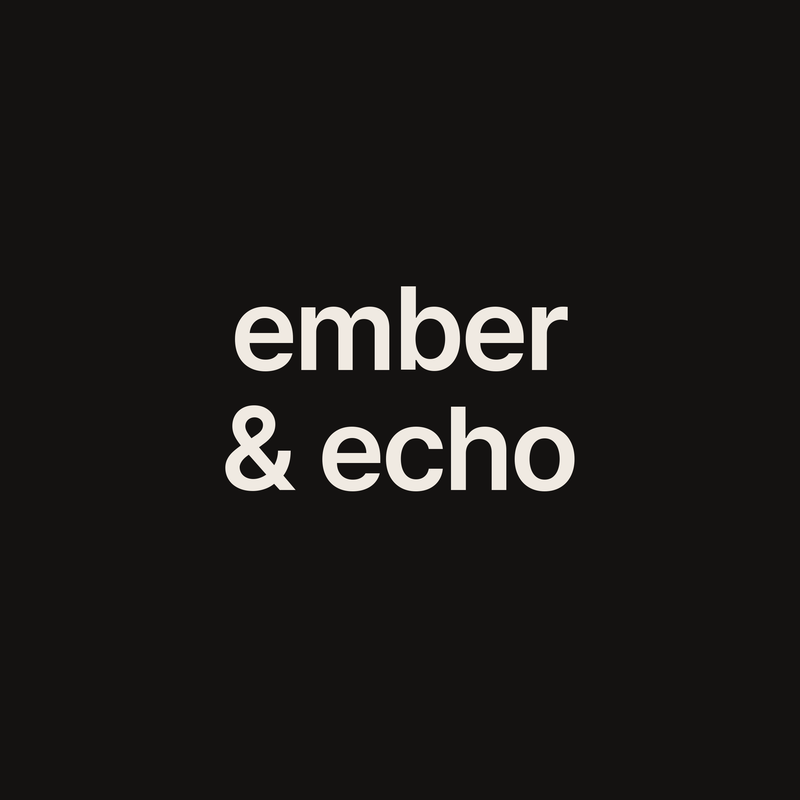
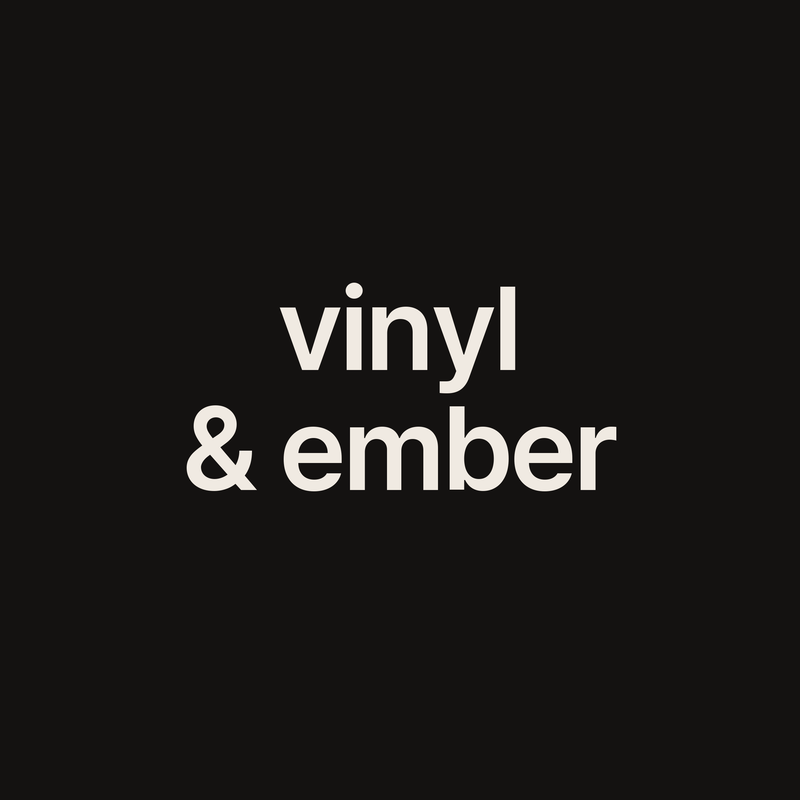
Rename channel to Vinyl & Ember

Changed region(s): [[0.2188, 0.3438, 0.7812, 0.625]]

diff --git a/privacy.html b/privacy.html
@@ -3,7 +3,7 @@
 <head>
 <meta charset="utf-8">
 <meta name="viewport" content="width=device-width, initial-scale=1">
-<title>Privacy Policy · ember &amp; echo</title>
+<title>Privacy Policy · vinyl &amp; ember</title>
 <link rel="icon" href="icon.png">
 <style>
   :root { --bg:#141211; --ink:#f0eae2; --muted:#8c857e; }
@@ -19,14 +19,14 @@
 </style>
 </head>
 <body><main>
-<p class="muted"><a href="./">ember &amp; echo</a></p>
+<p class="muted"><a href="./">vinyl &amp; ember</a></p>
 <h1>Privacy Policy</h1>
 <p class="muted">Effective date: November 20, 2026</p>
 
-<p>This policy describes how <b>BGM Uploader</b>, the internal tool operated by Ember &amp; Echo ("we"), handles data. BGM Uploader uses the YouTube API Services. By using it you also agree to the <a href="https://www.youtube.com/t/terms">YouTube Terms of Service</a>, and Google's handling of data is described in the <a href="https://policies.google.com/privacy">Google Privacy Policy</a>.</p>
+<p>This policy describes how <b>BGM Uploader</b>, the internal tool operated by Vinyl &amp; Ember ("we"), handles data. BGM Uploader uses the YouTube API Services. By using it you also agree to the <a href="https://www.youtube.com/t/terms">YouTube Terms of Service</a>, and Google's handling of data is described in the <a href="https://policies.google.com/privacy">Google Privacy Policy</a>.</p>
 
 <h2>Who uses the tool</h2>
-<p>BGM Uploader is used only by the owner of the YouTube channel Ember &amp; Echo (@ember_echo-music) to manage that channel. It is not offered to the public and has no other users.</p>
+<p>BGM Uploader is used only by the owner of the YouTube channel Vinyl &amp; Ember (@vinylandember) to manage that channel. It is not offered to the public and has no other users.</p>
 
 <h2>Data we access</h2>
 <ul>
@@ -52,6 +52,6 @@
 <p>We may update this policy; the effective date above will change accordingly.</p>
 
 <h2>Contact</h2>
-<p>For questions, use the contact email listed on our YouTube channel's About page: <a href="https://www.youtube.com/@ember_echo-music/about">youtube.com/@ember_echo-music/about</a>.</p>
+<p>For questions, use the contact email listed on our YouTube channel's About page: <a href="https://www.youtube.com/@vinylandember/about">youtube.com/@vinylandember/about</a>.</p>
 </main></body>
 </html>

diff --git a/index.html b/index.html
@@ -3,7 +3,7 @@
 <head>
 <meta charset="utf-8">
 <meta name="viewport" content="width=device-width, initial-scale=1">
-<title>ember &amp; echo</title>
+<title>vinyl &amp; ember</title>
 <meta name="description" content="Original background music for cafes, study, drives and quiet nights.">
 <link rel="icon" href="icon.png">
 <style>
@@ -25,20 +25,20 @@
 </style>
 </head>
 <body>
-  <h1>ember &amp; echo</h1>
+  <h1>vinyl &amp; ember</h1>
   <div class="tag">original background music</div>
-  <p class="about">Ember &amp; Echo publishes original background-music playlists for cafes, study, drives and quiet nights on YouTube.
+  <p class="about">Vinyl &amp; Ember publishes original background-music playlists for cafes, study, drives and quiet nights on YouTube.
     Our internal tool, <b>BGM Uploader</b>, uploads and schedules videos to our own channel and reads our own channel analytics through the YouTube API Services.</p>
   <nav>
-    <a href="https://www.youtube.com/@ember_echo-music">YouTube channel</a>
+    <a href="https://www.youtube.com/@vinylandember">YouTube channel</a>
     <a href="privacy.html">Privacy Policy</a>
     <a href="terms.html">Terms of Service</a>
   </nav>
-  <a class="yt" href="https://www.youtube.com/@ember_echo-music" aria-label="Ember &amp; Echo on YouTube">
+  <a class="yt" href="https://www.youtube.com/@vinylandember" aria-label="Vinyl &amp; Ember on YouTube">
     <svg width="40" height="28" viewBox="0 0 40 28" aria-hidden="true"><rect width="40" height="28" rx="7" fill="#FF0000"/><path d="M16 8.5v11l9.5-5.5z" fill="#fff"/></svg>
     <span>Watch on YouTube · Uses YouTube API Services</span>
   </a>
-  <footer>© 2026 Ember &amp; Echo · <a href="privacy.html">Privacy Policy</a> · <a href="terms.html">Terms of Service</a> ·
+  <footer>© 2026 Vinyl &amp; Ember · <a href="privacy.html">Privacy Policy</a> · <a href="terms.html">Terms of Service</a> ·
     <a href="https://www.youtube.com/t/terms">YouTube Terms of Service</a> · <a href="https://policies.google.com/privacy">Google Privacy Policy</a></footer>
 </body>
 </html>

diff --git a/terms.html b/terms.html
@@ -3,7 +3,7 @@
 <head>
 <meta charset="utf-8">
 <meta name="viewport" content="width=device-width, initial-scale=1">
-<title>Terms of Service · ember &amp; echo</title>
+<title>Terms of Service · vinyl &amp; ember</title>
 <link rel="icon" href="icon.png">
 <style>
   :root { --bg:#141211; --ink:#f0eae2; --muted:#8c857e; }
@@ -18,14 +18,14 @@
 </style>
 </head>
 <body><main>
-<p class="muted"><a href="./">ember &amp; echo</a></p>
+<p class="muted"><a href="./">vinyl &amp; ember</a></p>
 <h1>Terms of Service</h1>
 <p class="muted">Effective date: November 20, 2026</p>
-<p>BGM Uploader is an internal tool used solely by the owner of the Ember &amp; Echo YouTube channel. It is not available to the public.</p>
+<p>BGM Uploader is an internal tool used solely by the owner of the Vinyl &amp; Ember YouTube channel. It is not available to the public.</p>
 <h2>YouTube</h2>
 <p>BGM Uploader uses the YouTube API Services. Use of the tool is subject to the <a href="https://www.youtube.com/t/terms">YouTube Terms of Service</a> and the <a href="https://policies.google.com/privacy">Google Privacy Policy</a>.</p>
 <h2>Content</h2>
-<p>All music published by Ember &amp; Echo is original. Re-uploading our videos or music without permission is not allowed.</p>
+<p>All music published by Vinyl &amp; Ember is original. Re-uploading our videos or music without permission is not allowed.</p>
 <h2>Privacy</h2>
 <p>See our <a href="privacy.html">Privacy Policy</a>.</p>
 </main></body>
